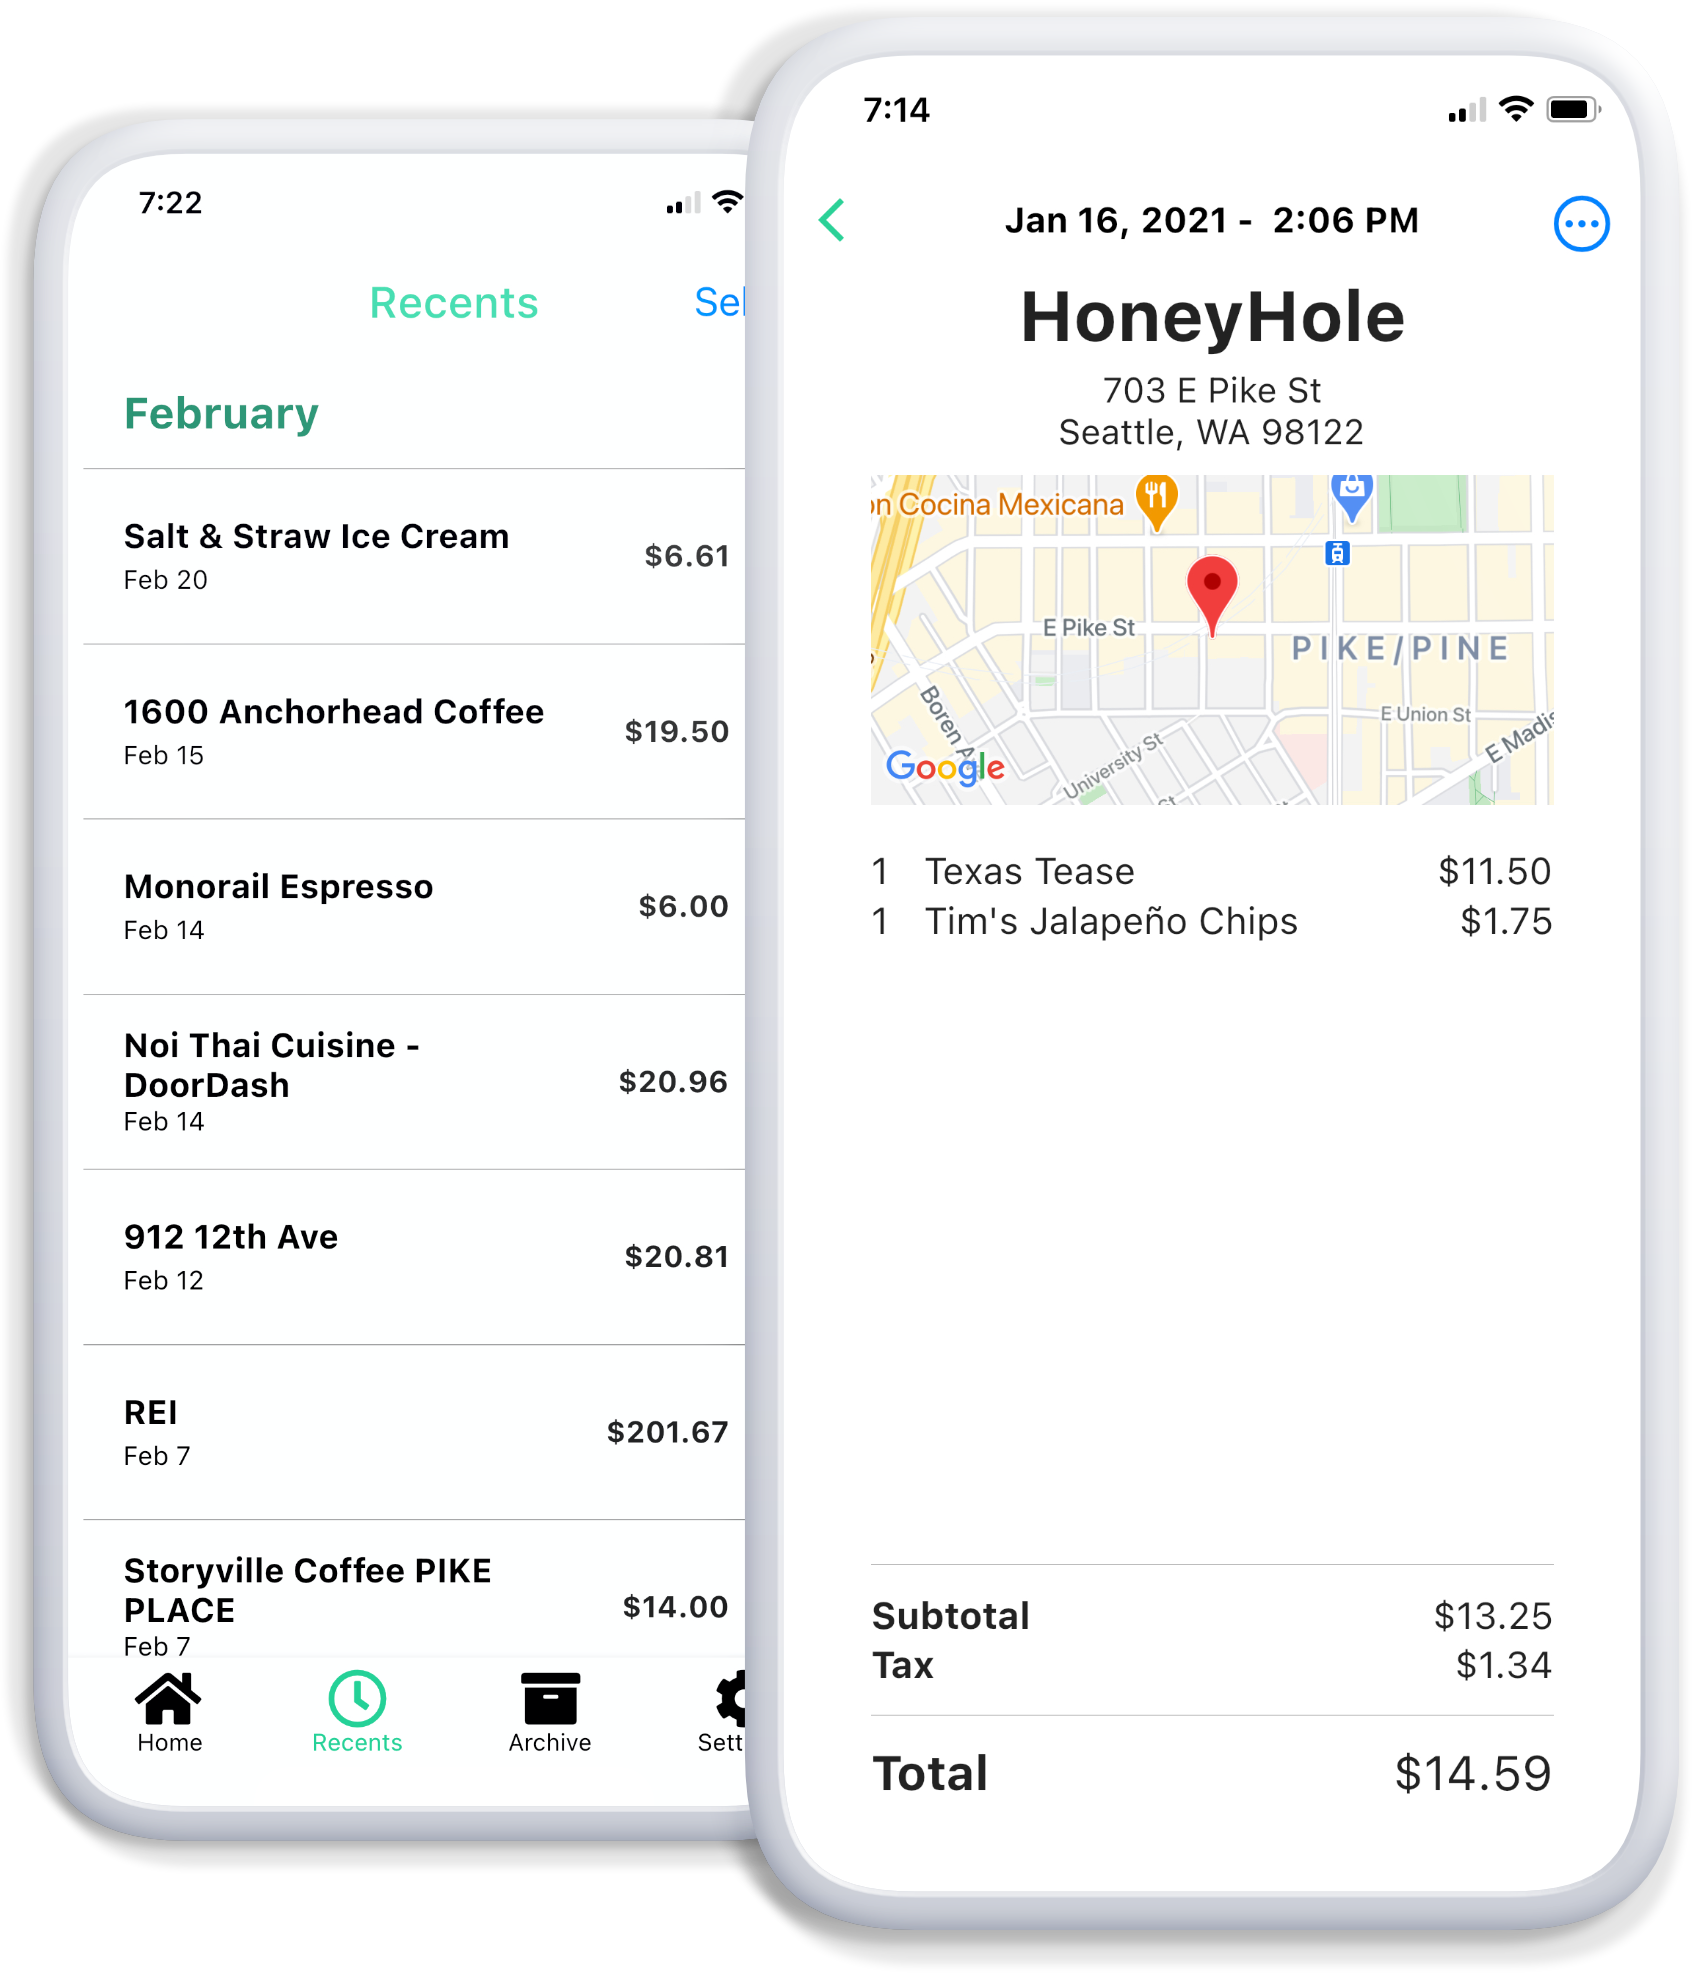
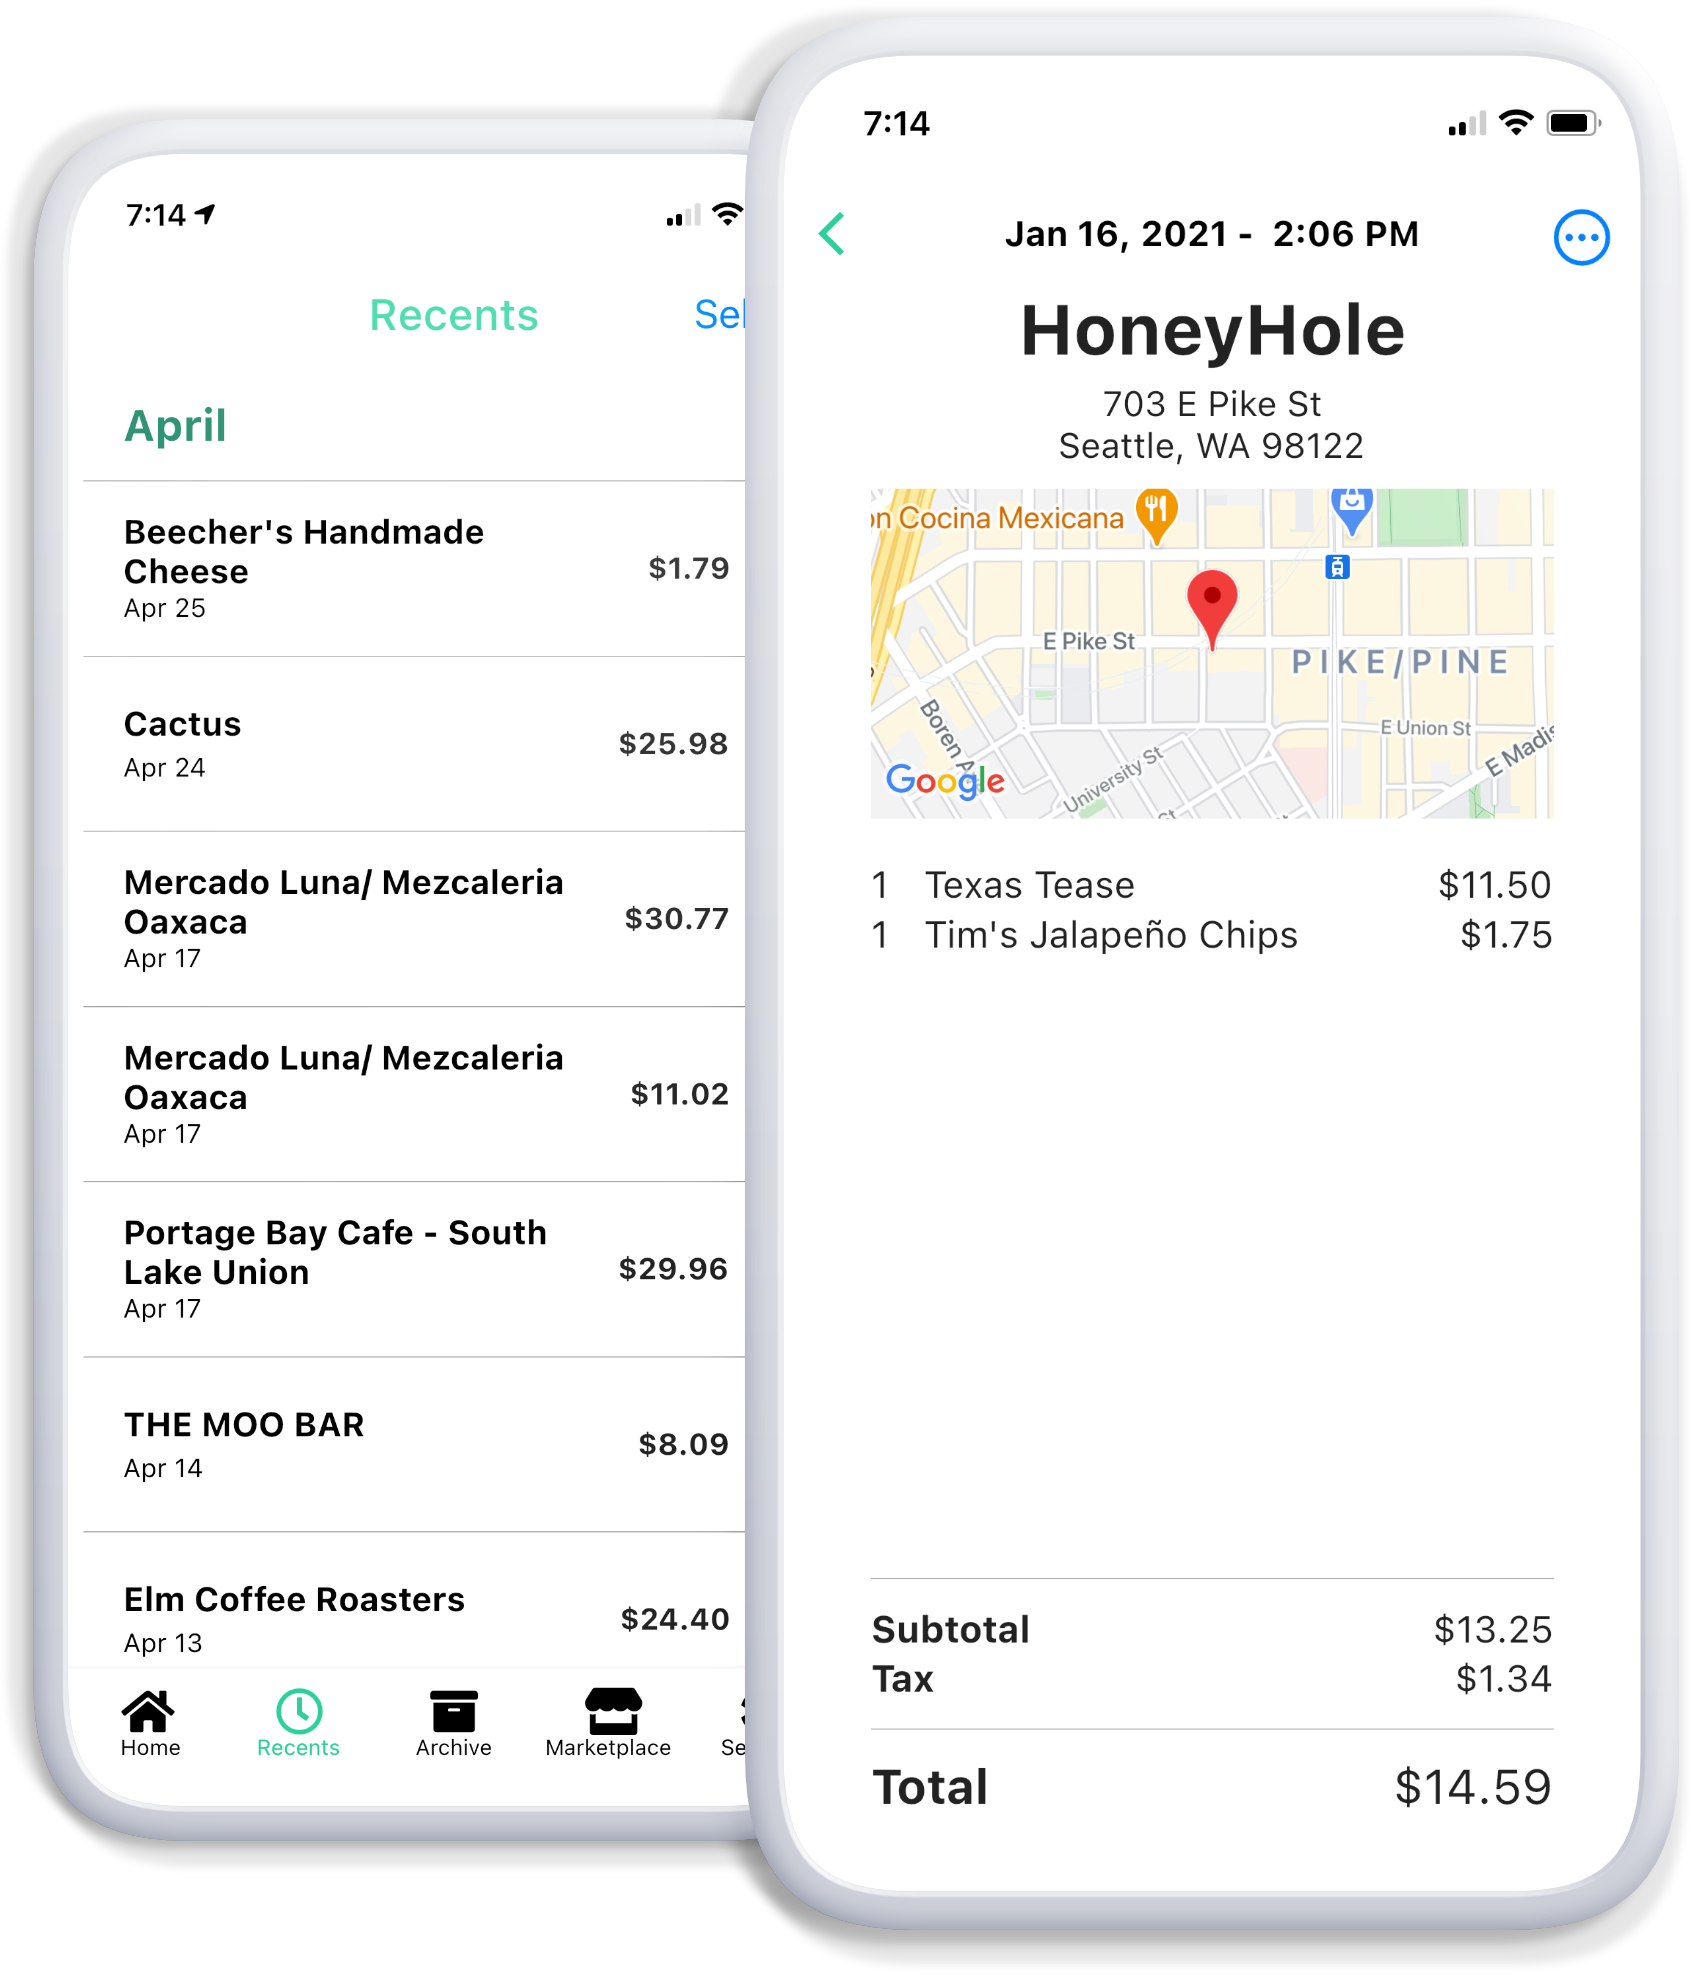
changed mockup and added Plutus Blog, app store links

diff --git a/index.html b/index.html
@@ -116,6 +116,9 @@
       <div class="nav-wrapper">
         <nav>
           <img src="img/big-logo-white.svg" alt="Plutus logo" />
+          <ul>
+            <li><a href="https://blog.joinplutus.com" class="smooth"> Visit The Plutus Blog ></a></li>
+        </ul>
         </nav>
       </div>
 
@@ -125,20 +128,20 @@
             <h1>A better alternative to paper receipts</h1>
             <p class="desc">
               Whether your first step towards an eco-friendly lifestyle or your 12th, opting for digital receipts with Plutus can be a gamechanger. 
-              We'll even reward you for collecting receipts. 
+              You can even help us plant trees in the app.
             </p>
             <!-- <p class="desc">
               Plutus is the most consumer-friendly option for digital receipts. 
               We strive to centralize the digitization of receipts and fight for the future of our planet in the process.
             </p> -->
-            <a href="https://www.apple.com">
+            <a href="https://apps.apple.com/us/app/plutus-digital-receipts/id1523224512">
               <img class="appleButton"
               src="img/appStoreDownload.svg"
               id="appStoreDownload"
               alt="ios app store button"
               />
             </a>
-            <a href="https://google.com">
+            <a href="https://play.google.com/store/apps/details?id=com.development.plutus">
               <img class="googleButton"
               src="img/googlePlay2.png"
               id="playStoreDownload"
@@ -309,6 +312,9 @@
           </div>
         </div>
         <nav>
+          <ul>
+            <a href="https://blog.joinplutus.com" target="_blank">The Plutus Blog</a>
+          </ul>
           <ul>
             <a href="privacy.html" target="_blank">Privacy Policy</a>
           </ul>
